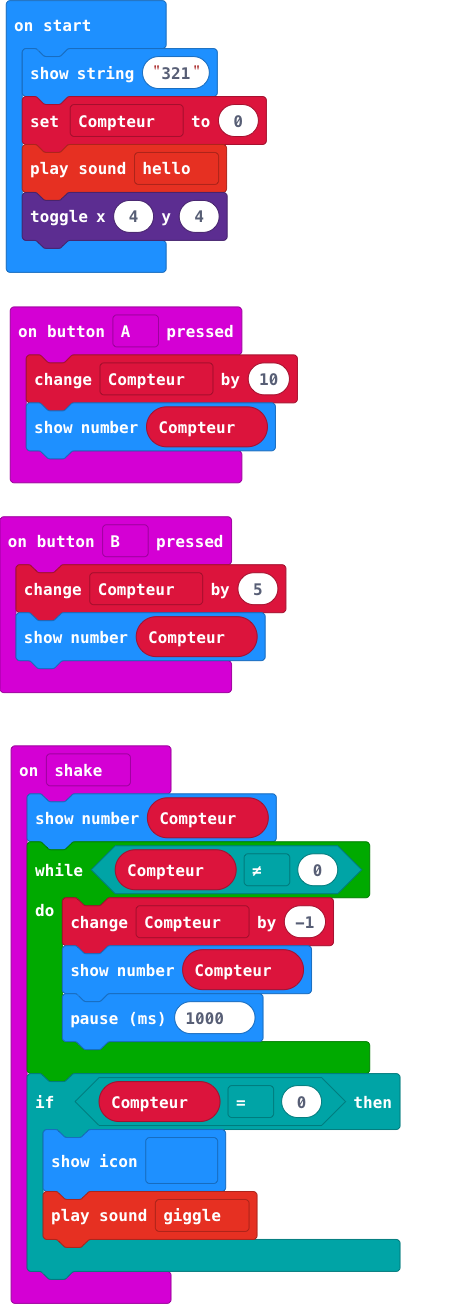
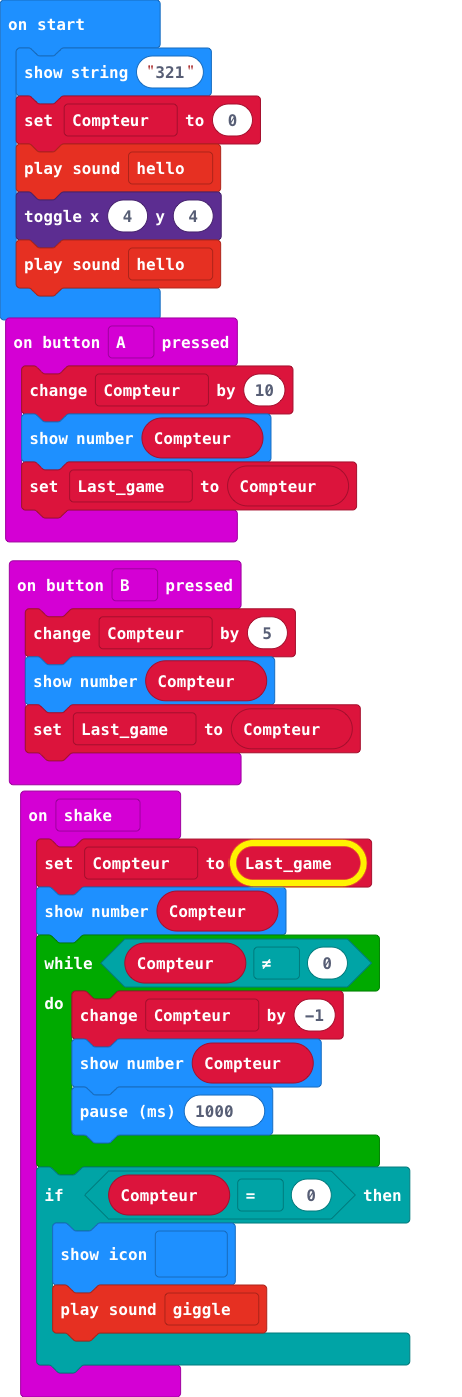
Update main.blocks, main.ts

diff --git a/main.ts b/main.ts
@@ -1,12 +1,15 @@
 input.onButtonPressed(Button.A, function () {
     Compteur += 10
     basic.showNumber(Compteur)
+    Last_game = Compteur
 })
 input.onButtonPressed(Button.B, function () {
     Compteur += 5
     basic.showNumber(Compteur)
+    Last_game = Compteur
 })
 input.onGesture(Gesture.Shake, function () {
+    Compteur = Last_game
     basic.showNumber(Compteur)
     while (Compteur != 0) {
         Compteur += -1
@@ -18,8 +21,10 @@ input.onGesture(Gesture.Shake, function () {
         soundExpression.giggle.play()
     }
 })
+let Last_game = 0
 let Compteur = 0
 basic.showString("321")
 Compteur = 0
 soundExpression.hello.play()
 led.toggle(4, 4)
+soundExpression.hello.play()
